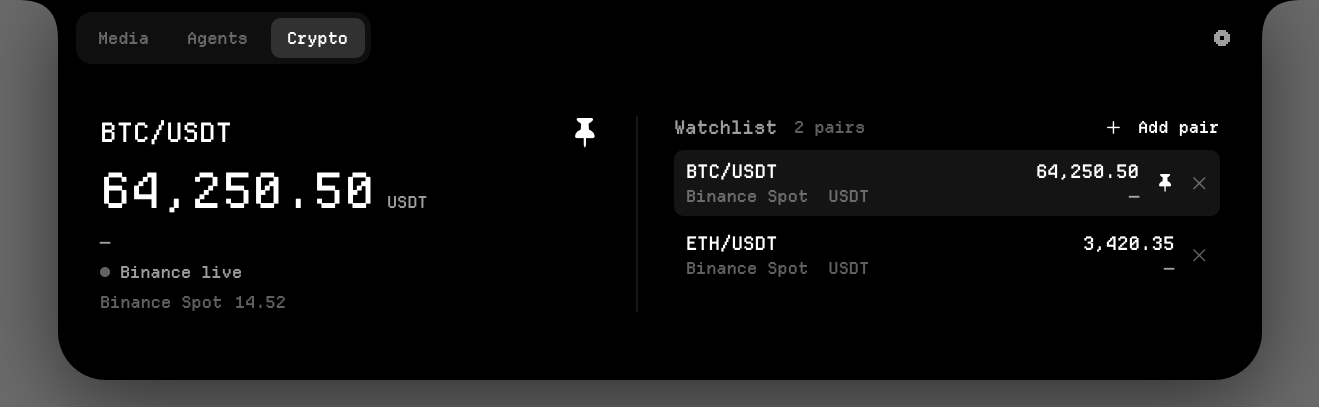
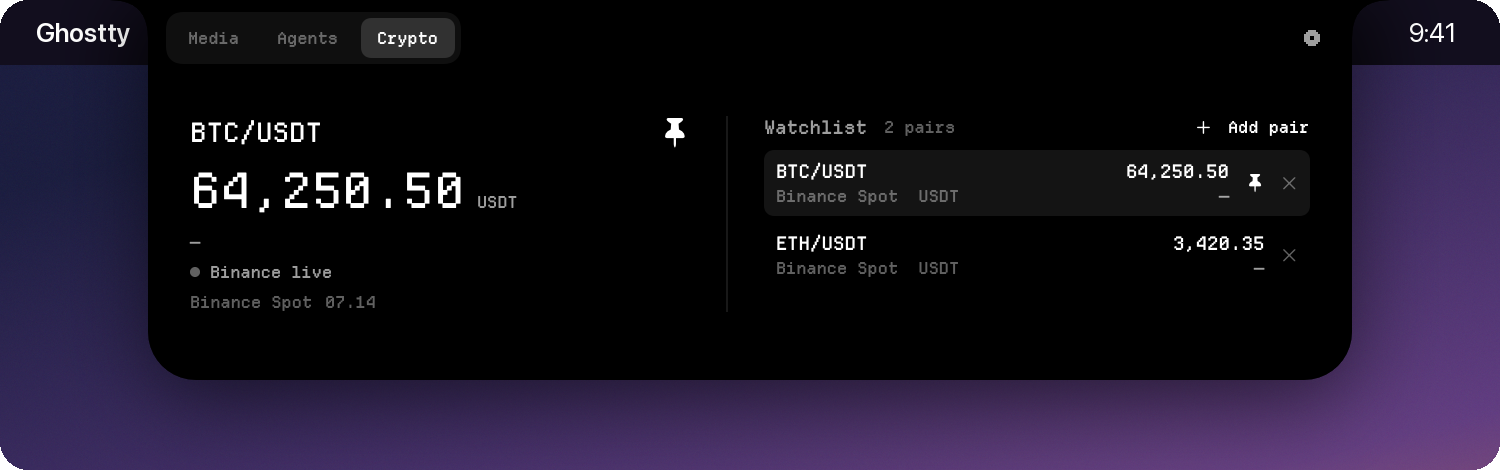
readme: new screenshots on a desktop backdrop, an attention recording and the current mascot

diff --git a/scripts/compose-readme-images.py b/scripts/compose-readme-images.py
@@ -1,0 +1,155 @@
+#!/usr/bin/env python3
+"""Composes the README's images from the app's own renders.
+
+The notch cannot be screenshotted, so the panels come from `FrameDump` (preview data, rendered
+transparent with `NOTCH_FRAMES_CLEAR=1`) and from `LiveCapture` recordings of the running app.
+This script places them on a desktop — a wallpaper and a menu bar — exactly where the notch
+sits, so the images look like the Mac they run on rather than like cut-outs on grey.
+
+    NOTCH_FRAMES_CLEAR=1 NOTCH_FRAMES=/tmp/frames "The Notch.app/Contents/MacOS/The Notch"
+    python3 scripts/compose-readme-images.py stills /tmp/frames docs/images
+    python3 scripts/compose-readme-images.py gif /tmp/recording docs/images/attention.gif
+
+Every frame is the 2x panel (1920x640 for the 960x320pt panel), notch centred at the top.
+"""
+import glob
+import os
+import sys
+
+import numpy as np
+from PIL import Image, ImageDraw, ImageFont
+
+SCALE = 2
+MENU_HEIGHT = 32 * SCALE
+FONT = "/System/Library/Fonts/SFNS.ttf"
+
+
+def wallpaper(width, height, seed=0):
+    """A soft dusk gradient: deep blue at the top, violet, warm amber low on the right."""
+    y, x = np.mgrid[0:height, 0:width].astype(np.float32)
+    u, v = x / width, y / height
+    top = np.array([28, 30, 64], np.float32)
+    mid = np.array([92, 58, 128], np.float32)
+    low = np.array([214, 120, 92], np.float32)
+    t = np.clip(v * 1.1 + (u - 0.5) * 0.35, 0, 1)[..., None]
+    base = np.where(t < 0.55, top + (mid - top) * (t / 0.55), mid + (low - mid) * ((t - 0.55) / 0.45))
+    glow = np.exp(-(((u - 0.78) / 0.35) ** 2 + ((v - 1.05) / 0.5) ** 2))[..., None]
+    base = base + glow * np.array([60, 40, 10], np.float32)
+    rng = np.random.default_rng(seed)
+    base += rng.normal(0, 1.2, base.shape)  # a little grain, so gradients do not band
+    return Image.fromarray(np.clip(base, 0, 255).astype(np.uint8), "RGB").convert("RGBA")
+
+
+def menubar(canvas, notch_width_px):
+    draw = ImageDraw.Draw(canvas, "RGBA")
+    width = canvas.width
+    draw.rectangle([0, 0, width, MENU_HEIGHT], fill=(18, 14, 30, 70))
+    font = ImageFont.truetype(FONT, 26)
+    bold = ImageFont.truetype(FONT, 26)
+    try:
+        bold.set_variation_by_name("Semibold")
+    except Exception:
+        pass
+    x = 36
+    for index, item in enumerate(["Ghostty", "Shell", "Edit", "View", "Window", "Help"]):
+        draw.text((x, MENU_HEIGHT / 2), item, font=bold if index == 0 else font, fill=(255, 255, 255, 235), anchor="lm")
+        x += draw.textlength(item, font=bold if index == 0 else font) + 40
+        if x > width / 2 - notch_width_px / 2 - 120:
+            break
+    clock = "9:41"
+    draw.text((width - 44, MENU_HEIGHT / 2), clock, font=font, fill=(255, 255, 255, 235), anchor="rm")
+
+
+def desktop(frame, height, width, seed=0):
+    """A `width` x `height` piece of the top of the screen: the top of a full-height wallpaper,
+    the menu bar, then the notch panel over both — centred, where the hardware notch is."""
+    canvas = wallpaper(width, 1200, seed).crop((0, 0, width, height))
+    menubar(canvas, 400 * SCALE)
+    left = (frame.width - width) // 2
+    canvas.alpha_composite(frame.crop((left, 0, left + width, height)))
+    return canvas
+
+
+def round_corners(image, radius):
+    mask = Image.new("L", image.size, 0)
+    ImageDraw.Draw(mask).rounded_rectangle([0, 0, image.width - 1, image.height - 1], radius, fill=255)
+    out = image.copy()
+    out.putalpha(mask)
+    return out
+
+
+STILLS = {
+    # README name: (FrameDump scenario, crop height in px, crop width in px)
+    "agents.png": ("expanded-subagents", 470, 1500),
+    "approval.png": ("expanded-approval", 470, 1500),
+    "question.png": ("expanded-approval-question", 470, 1500),
+    "media.png": ("expanded-media-lyrics", 470, 1500),
+    "crypto.png": ("expanded-trading-watchlist", 470, 1500),
+    "settings.png": ("expanded-settings", 470, 1500),
+}
+
+COLLAPSED = [
+    ("collapsed-agents", "Agents working"),
+    ("collapsed-approval", "Needs your approval"),
+    ("collapsed-media-playing", "Now playing"),
+    ("collapsed-hud-volume", "Volume HUD"),
+    ("collapsed-trading", "Pinned crypto price"),
+]
+
+
+def stills(frames, out):
+    for name, (scenario, height, width) in STILLS.items():
+        frame = Image.open(os.path.join(frames, f"scenario-{scenario}.png")).convert("RGBA")
+        image = round_corners(desktop(frame, height, width, seed=len(name)), 28)
+        image.save(os.path.join(out, name), optimize=True)
+        print("wrote", name, image.size)
+
+    # The closed notch in five states: one slim strip of desktop per state, labelled.
+    rows = []
+    font = ImageFont.truetype(FONT, 30)
+    for scenario, label in COLLAPSED:
+        frame = Image.open(os.path.join(frames, f"scenario-{scenario}.png")).convert("RGBA")
+        strip = desktop(frame, 120, 1200, seed=len(label))
+        row = Image.new("RGBA", (1700, 120), (0, 0, 0, 0))
+        row.alpha_composite(round_corners(strip, 22), (0, 0))
+        ImageDraw.Draw(row).text((1250, 60), label, font=font, fill=(150, 150, 156, 255), anchor="lm")
+        rows.append(row)
+    sheet = Image.new("RGBA", (1700, len(rows) * 140 - 20), (0, 0, 0, 0))
+    for index, row in enumerate(rows):
+        sheet.alpha_composite(row, (0, index * 140))
+    sheet.save(os.path.join(out, "collapsed.png"), optimize=True)
+    print("wrote collapsed.png", sheet.size)
+
+
+def gif(recording, out, crop=(1500, 520), width=900, step=1, frame_ms=47):
+    """`frame_ms` is the recording's real interval: LiveCapture asks for 30fps and gets ~21."""
+    files = sorted(glob.glob(os.path.join(recording, "rec-*.png")))[::step]
+    frames = []
+    for path in files:
+        frame = Image.open(path).convert("RGBA")
+        image = desktop(frame, crop[1], crop[0], seed=7)
+        image = image.resize((width, round(crop[1] * width / crop[0])), Image.LANCZOS).convert("RGB")
+        frames.append(image)
+    # One palette for the whole recording, sampled across it: a palette taken from a single
+    # frame drops the hues that frame lacks (the amber card, the green confetti).
+    samples = frames[:: max(1, len(frames) // 16)]
+    strip = Image.new("RGB", (frames[0].width, frames[0].height * len(samples)))
+    for index, sample in enumerate(samples):
+        strip.paste(sample, (0, index * frames[0].height))
+    base = strip.quantize(colors=190, method=Image.Quantize.MEDIANCUT).getpalette()[: 190 * 3]
+    # The status hues and their shades get reserved entries: they cover a few hundred pixels of
+    # a frame that is mostly wallpaper, so a palette chosen by area alone washes them out.
+    accents = []
+    for hue in [(255, 133, 20), (255, 204, 26), (56, 255, 115), (41, 158, 255), (77, 224, 255), (189, 107, 255), (242, 239, 232)]:
+        for level in (0.25, 0.4, 0.55, 0.7, 0.85, 1.0, 1.15, 1.3, 1.45):
+            accents += [min(255, int(c * level if level <= 1 else c + (255 - c) * (level - 1) * 1.6)) for c in hue]
+    palette = Image.new("P", (1, 1))
+    palette.putpalette((base + accents)[: 256 * 3])
+    quantized = [f.quantize(palette=palette, dither=Image.Dither.FLOYDSTEINBERG) for f in frames]
+    quantized[0].save(out, save_all=True, append_images=quantized[1:], duration=frame_ms * step, loop=0, optimize=True)
+    print("wrote", out, len(quantized), "frames", os.path.getsize(out) // 1024, "KB")
+
+
+if __name__ == "__main__":
+    mode, source, target = sys.argv[1:4]
+    stills(source, target) if mode == "stills" else gif(source, target)

diff --git a/README.md b/README.md
@@ -25,27 +25,37 @@ music and crypto prices.
 
 - **See every agent at a glance.** Claude Code, Codex, Gemini CLI, Cursor, OpenCode, Antigravity
   and Kiro sessions show up automatically, including subagents.
-- **Know when an agent needs you.** When an agent asks for permission or asks a question, the
-  notch pops open and shows what it wants. You answer in the agent's terminal as usual.
+- **Know when an agent needs you.** A permission prompt makes the notch *pop* open with a shock
+  ring; a question *drips* out of it. The card shows exactly what the agent wants, and one click
+  takes you to the agent to answer. A finished run gets a burst of confetti.
 - **A mascot that is alive.** Each state has its own motion and colour. It startles when it needs
   you, celebrates when it is done, and falls asleep when it has been idle for a while.
 - **Media, HUD and crypto.** Now playing with controls and synced lyrics, a volume and
   brightness HUD that replaces the macOS one, and pinned Binance prices.
+- **Asks before it touches anything.** On first launch the notch introduces itself and lists the
+  agents it found; nothing is written to their config until you say yes.
 - **Works on any Mac.** Macs without a notch get a drawn notch in the same place.
 
 ## What it looks like
 
+**When an agent needs you**, the notch comes to you. A permission prompt pops it open, a
+question drips out of it, and a finished run spills confetti:
+
+<p align="center"><img src="docs/images/attention.gif" width="760" alt="A permission prompt popping the notch open, a question dripping out of it, and confetti when a run finishes"></p>
+
 **Closed**, the notch shows the most important thing right now:
 
-<p align="center"><img src="docs/images/collapsed.png" width="640" alt="The closed notch in six states"></p>
+<p align="center"><img src="docs/images/collapsed.png" width="700" alt="The closed notch in five states: agents working, needs approval, now playing, volume and a pinned crypto price"></p>
 
 **Open** (hover over the notch), it shows the full panel:
 
 | Agents and subagents | A permission prompt |
 | --- | --- |
-| <img src="docs/images/agents.png" alt="An agent session with its host, current tool and two subagents"> | <img src="docs/images/approval.png" alt="Permission card showing the blocked Bash command and a link back to the agent"> |
-| **Now playing, with synced lyrics** | **Crypto watchlist** |
-| <img src="docs/images/media.png" alt="Media player showing the current lyric line"> | <img src="docs/images/crypto.png" alt="Crypto watchlist"> |
+| <img src="docs/images/agents.png" alt="An agent session with its host, current tool and two subagents"> | <img src="docs/images/approval.png" alt="Permission card: the mascot and the agent on the left, the blocked command in a code block, and a button to answer in Claude Code"> |
+| **A question, with its answers** | **Now playing, with synced lyrics** |
+| <img src="docs/images/question.png" alt="Question card showing the question and its numbered answers"> | <img src="docs/images/media.png" alt="Media player showing the current lyric line"> |
+| **Crypto watchlist** | **Settings** |
+| <img src="docs/images/crypto.png" alt="Crypto watchlist"> | <img src="docs/images/settings.png" alt="Settings in four columns"> |
 
 ## Install
 
@@ -81,8 +91,10 @@ at the top: **Media**, **Agents** and **Crypto**. The gear on the right opens **
 
 ### 2. Connect your coding agents
 
-There is nothing to configure. The Notch looks for installed agents every 30 seconds and adds its
-hook to each one it finds:
+The first time it runs, the notch introduces itself and asks before touching anything: it lists
+the agents it found, and you can untick any of them. Once you say yes, The Notch looks for
+installed agents every 30 seconds and adds its hook to each one you agreed to. If you said
+"not now", nothing is written; **Settings → Replay intro…** asks again.
 
 | Agent | Where the hook goes |
 | --- | --- |
@@ -124,10 +136,15 @@ When an agent is blocked on you, an orange ring also travels around the notch.
 
 ### 4. Permission prompts and questions
 
-When an agent asks for permission or asks a question, the notch pops open and shows the tool,
-the command or question (with its numbered answers) and how long it has been waiting. Answer in
-the agent's terminal as usual; the notice clears itself once the agent moves on, or click it to
-dismiss.
+When an agent asks for permission, the notch pops open; when it asks a question, a drop forms
+under the notch and the notch swallows it as it opens. The card shows who is asking and for how
+long on the left, and on the right the command, or the question with its numbered answers. Press
+**Answer in …** to jump to the agent, and answer there as usual. The card tells you which key to
+press. It clears itself once the agent moves on, or press **✕ Dismiss**. If you leave a prompt
+unanswered, the notch nudges you again every few seconds.
+
+When a run finishes, the notch breathes out and drops a little confetti onto your desktop. Turn
+that off with **Settings → Celebrate done**.
 
 ### 5. Keep the list tidy
 
@@ -146,7 +163,8 @@ nothing is playing, the tab links straight to each installed player.
 
 Press the lyrics button (the three lines in the controls) to follow the song's lyrics, synced to
 playback. The controls move to a slim strip and the lyrics take the panel, and the closed notch
-shows the line being sung, split across the camera. Lyrics come from [LRCLIB](https://lrclib.net),
+floats the line being sung in a small pill underneath it. Move your pointer near the pill and it
+splashes out of the way, so you can click whatever it was covering. Lyrics come from [LRCLIB](https://lrclib.net),
 a free lyrics database: the track's title and artist are sent there only while lyrics are on.
 If the lookup fails, it retries on its own a couple of times; if lyrics still don't appear, press
 **Try again**. Titles that players decorate (`- Remastered 2009`, `- From "…"`, `(feat. …)`) are
@@ -168,7 +186,7 @@ public feed, so there is no account or API key. See [Crypto feed details](docs/T
 | Media | Show media, Hide when paused |
 | Agents | Show agents, Attention ring, Sound cues, Keep done (how long finished sessions stay), Connections… |
 | System | Replace OS HUD, HUD dwell (how long it stays on screen) |
-| Behaviour | Expand on hover, Hover speed, Launch at login, Donate… |
+| Behaviour | Expand on hover, Hover speed, Launch at login, Celebrate done, Replay intro…, Donate… |
 
 **Quit** is in the top-right corner of Settings.
 
